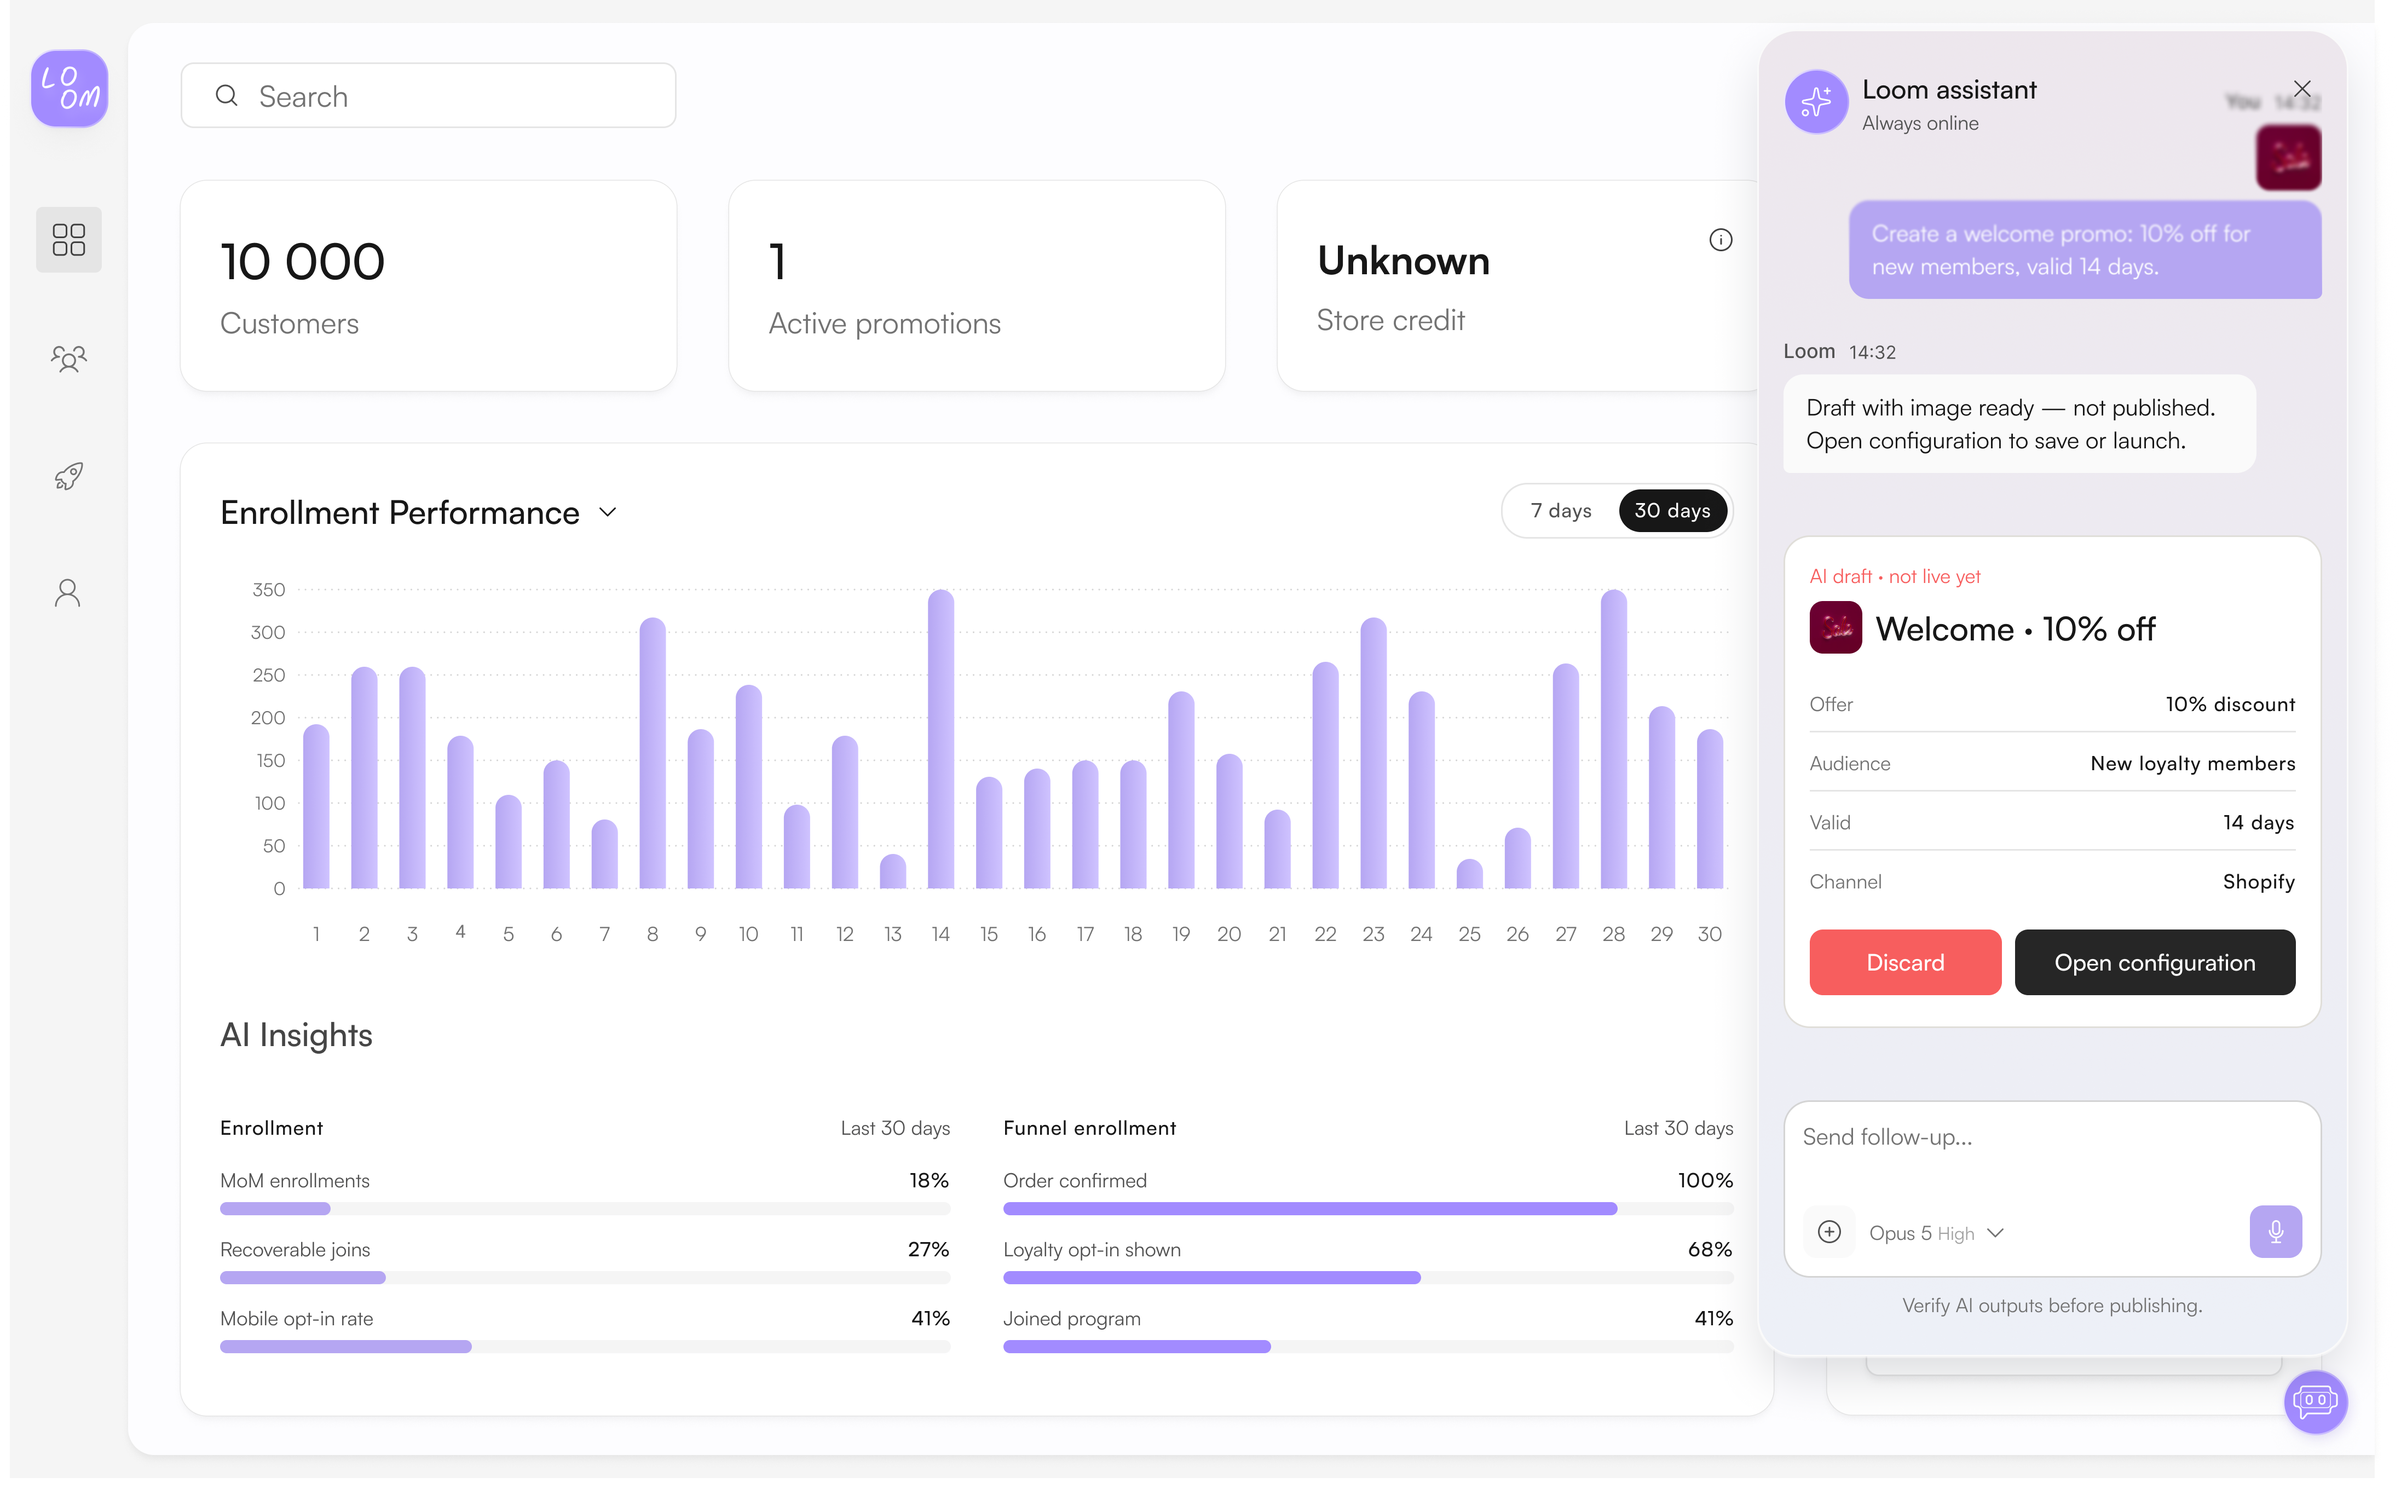
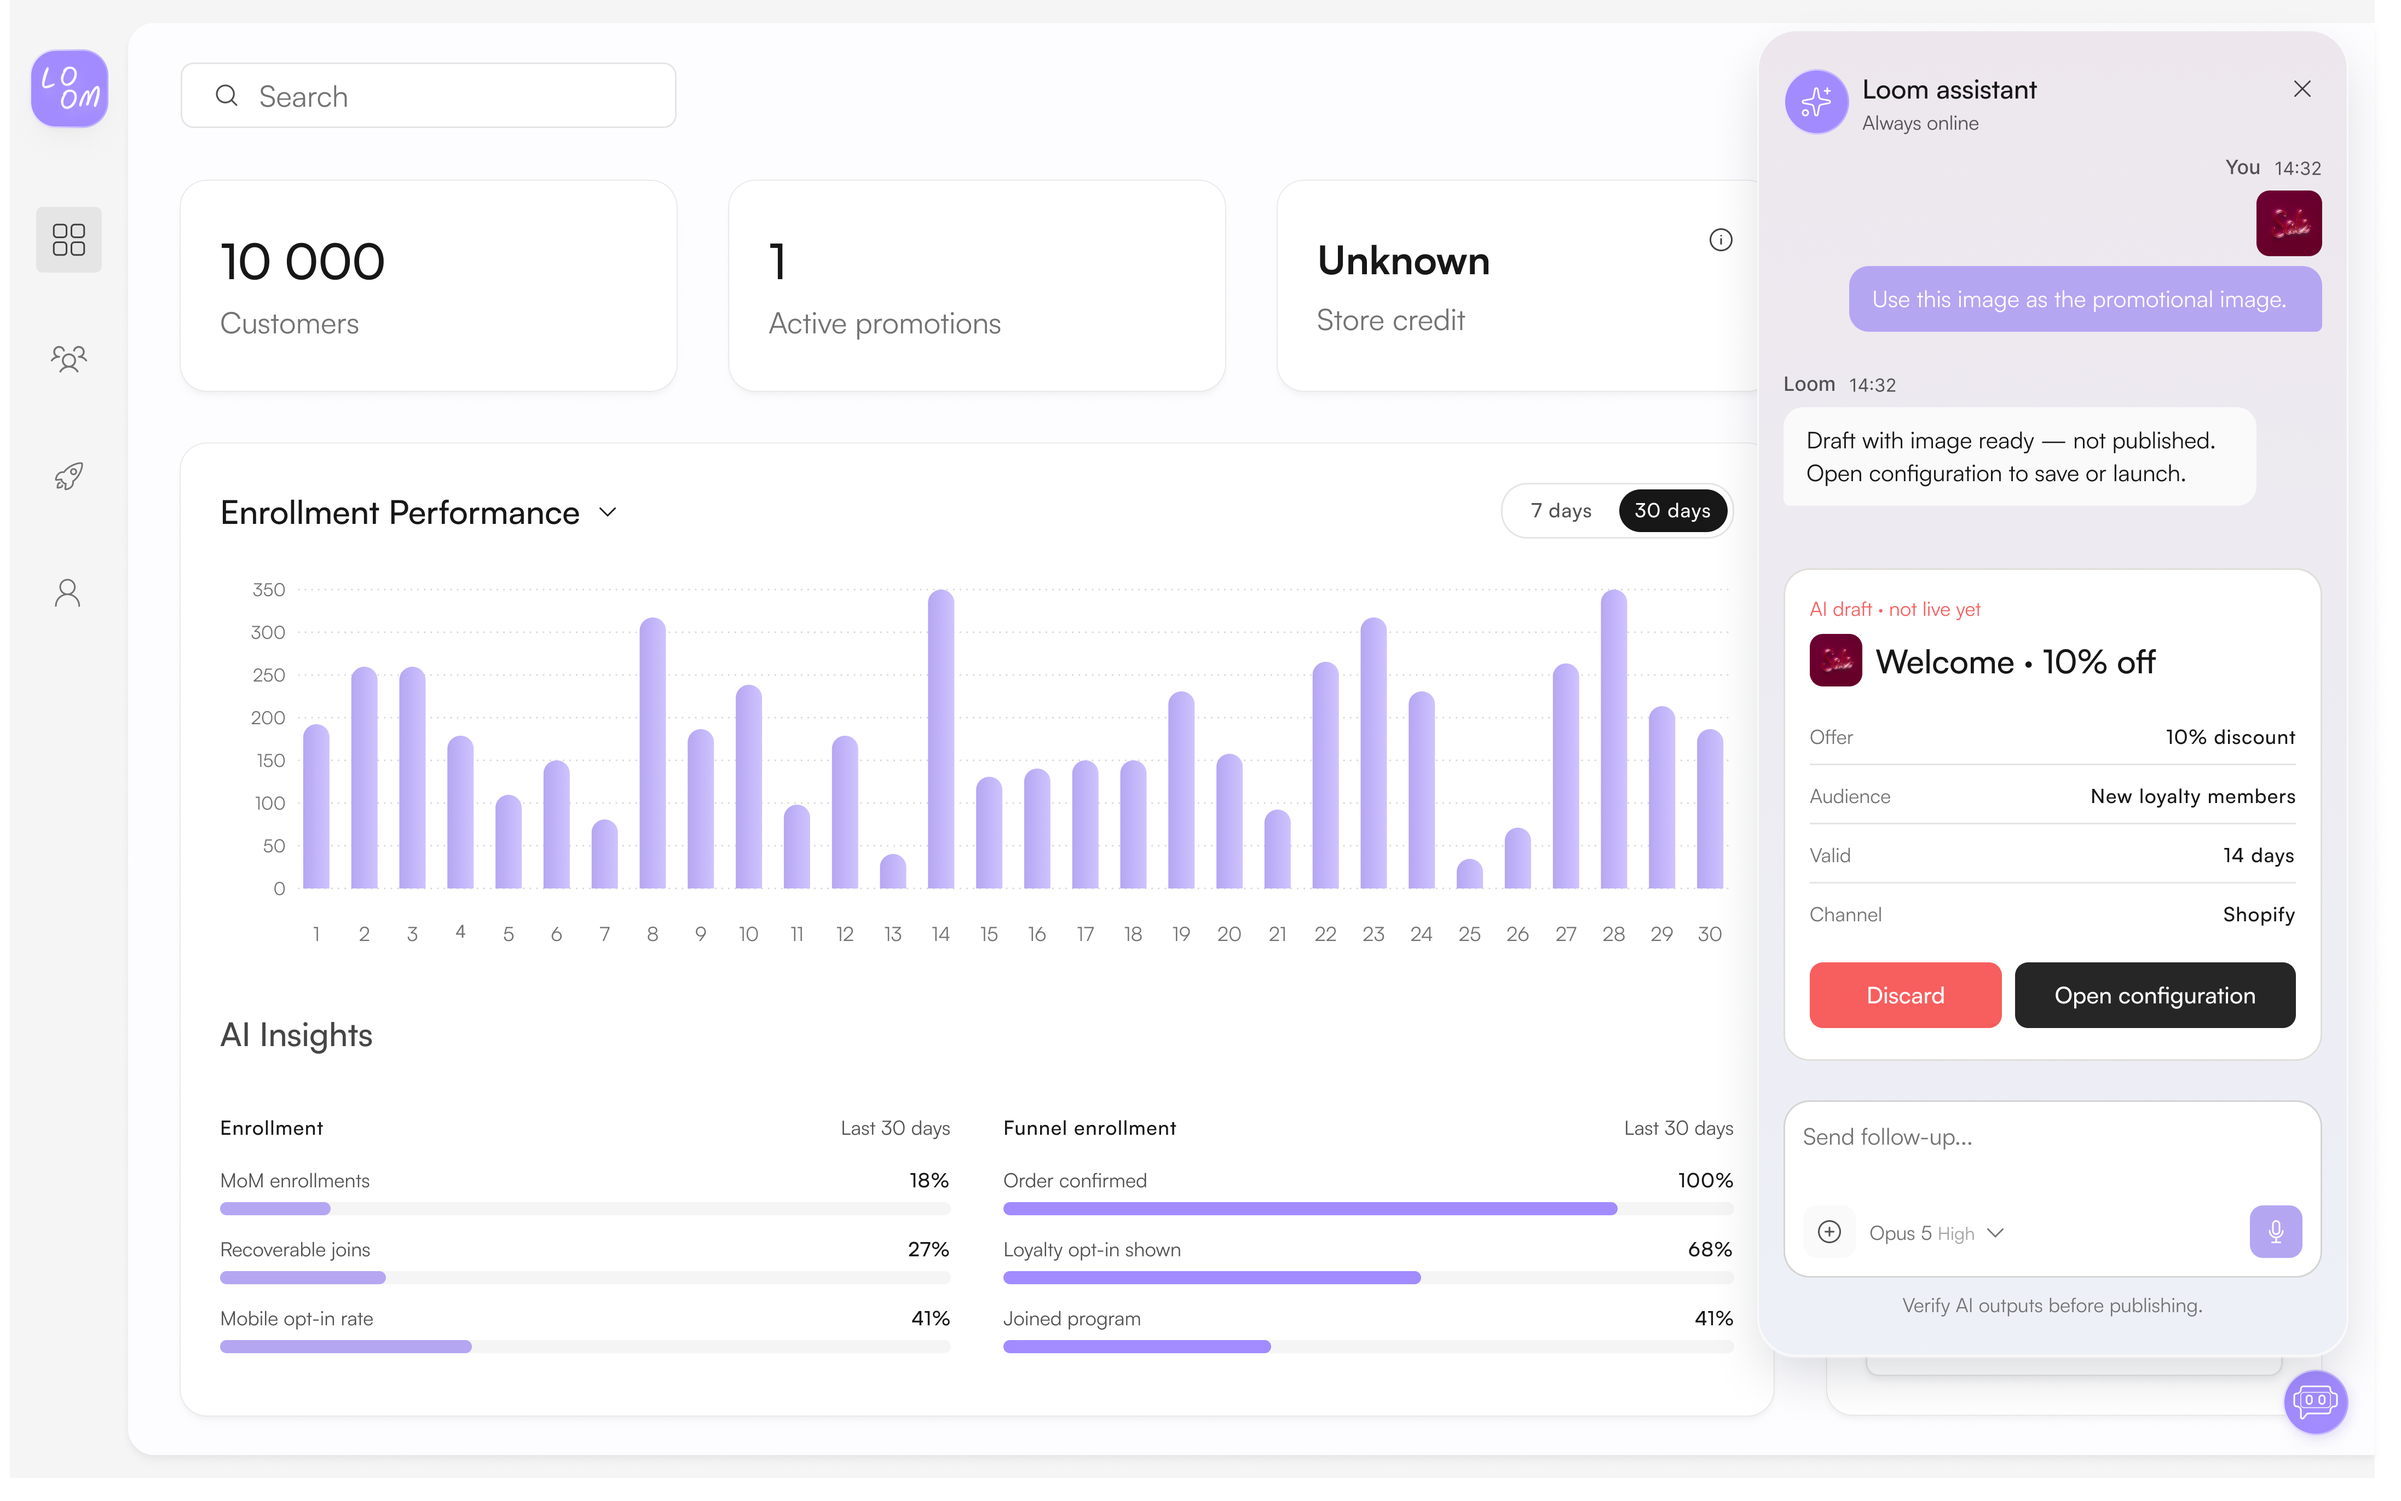
update

Changed region(s): [[0.7497, 0.372, 0.9683, 0.713], [0.7497, 0.062, 0.9683, 0.341]]

diff --git a/design-system.html b/design-system.html
@@ -141,7 +141,7 @@
                 <img src="images/design-system/carusel/11.png?v=11" alt="Loom dashboard with AI draft and attached promotional image" width="2560" height="1600" loading="lazy" decoding="async" />
               </figure>
               <figure class="design-carousel__slide" data-caption="Dashboard — open configuration to save or launch">
-                <img src="images/design-system/carusel/12.png?v=11" alt="Loom dashboard with final AI draft card and Open configuration CTA" width="2560" height="1600" loading="lazy" decoding="async" />
+                <img src="images/design-system/carusel/12.png?v=12" alt="Loom dashboard with final AI draft card and Open configuration CTA" width="2560" height="1600" loading="lazy" decoding="async" />
               </figure>
             </div>
           </div>
